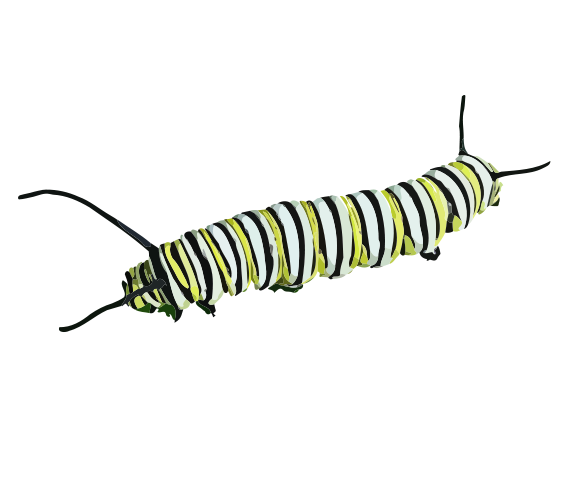
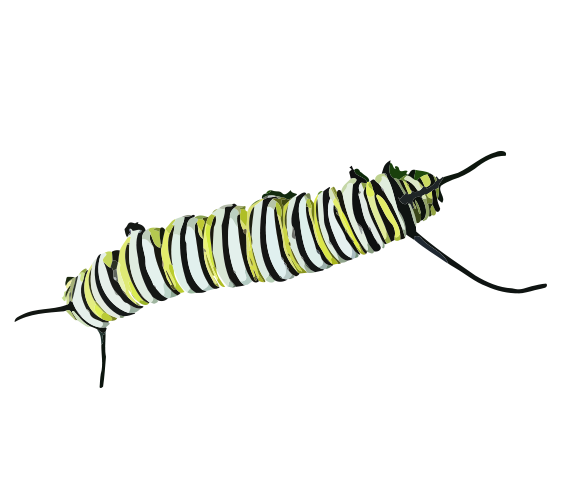
flipped cp's image

Changed region(s): [[0.0301, 0.1863, 0.9628, 0.8075], [0.0301, 0.3727, 0.1204, 0.4348], [0.8726, 0.5901, 0.9628, 0.6211]]

diff --git a/style.css b/style.css
@@ -15,7 +15,7 @@ div {
     background: no-repeat;
     background-size: contain;
     position: absolute;
-    transition: background-image 2500ms, transform 200ms;
+    transition: background-image 600ms, transform 200ms;
     height: 140px;
     width: 140px;
     overflow: visible;
